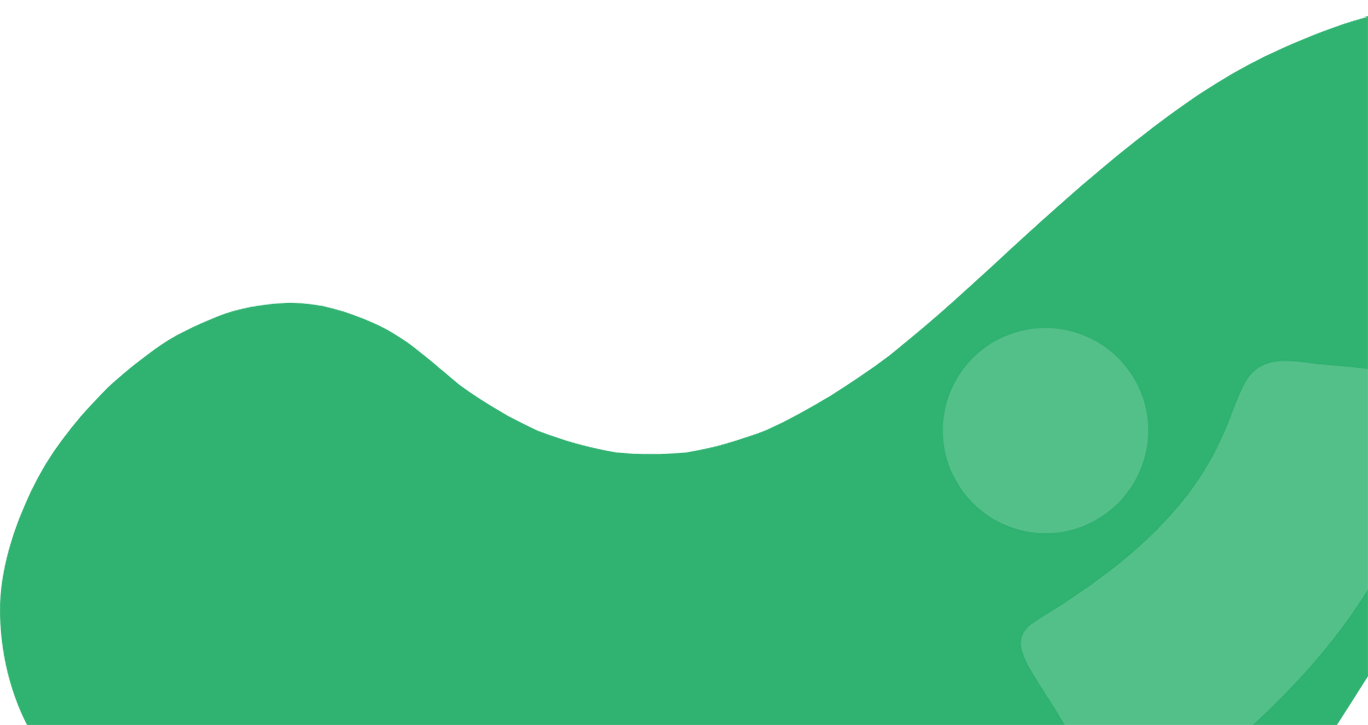
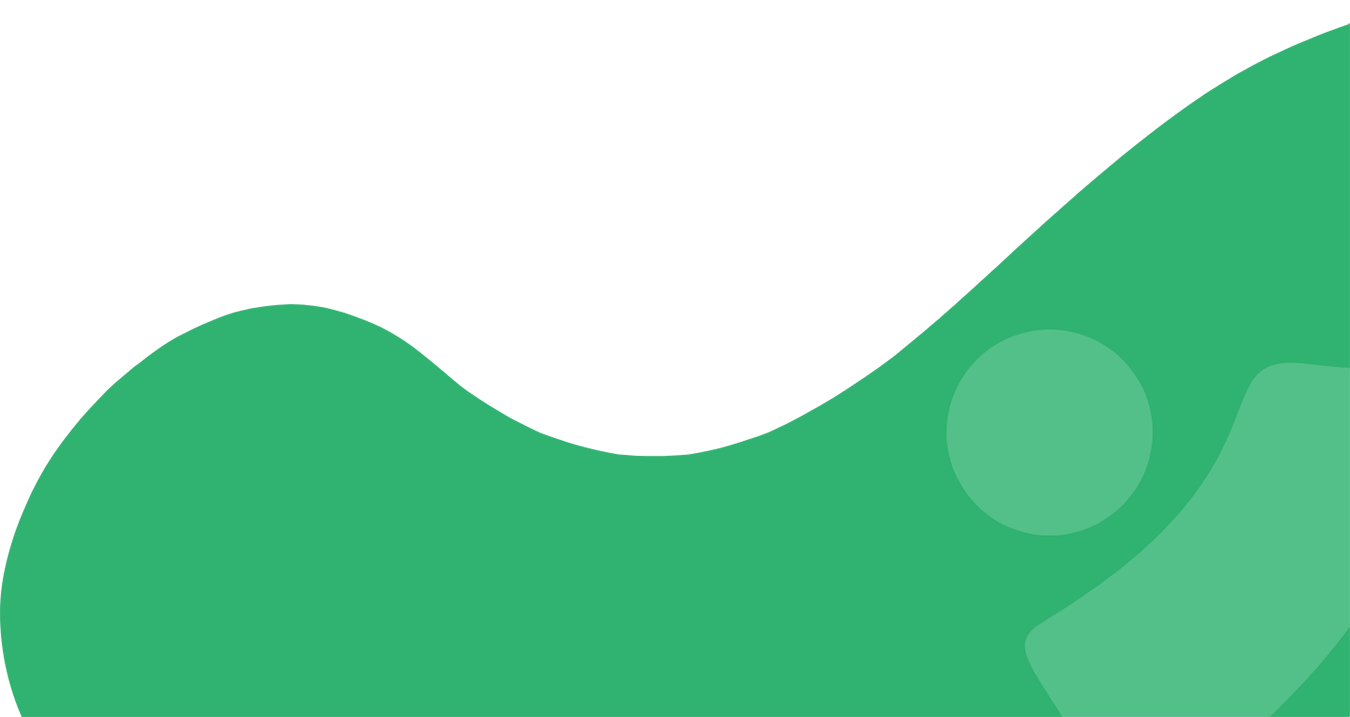
..

diff --git a/themes/lpw/assets/css/_footer.css b/themes/lpw/assets/css/_footer.css
@@ -132,13 +132,19 @@
     background: #fff;
 }
 .ftr-background{
-    position: absolute;
+/*    position: absolute;
     right: 0;
     bottom: 0;
+*/
+	width:100%;
 }
 .ftr-grn-bg{
-    height: 723px;
-    width: 1368px;
+    height: 715px;
+    width:70.31%;
+    position: absolute;
+    right:0;
+    bottom:0;
+    background-size:100% 100%!important;
 }
 /*hr-desing*/
 
@@ -181,10 +187,26 @@
 	right: 23px;
 }
 
-@media(max-width:){
-	.ftr-grn-bg.inline-bg {
-	    height: 625px;
-	    width: 1168px;
-	    background-position: left 51px bottom 0px!important;
+@media(max-width:1699px){
+	.ftr-rgt{
+		padding-left: 160px;
+	}
+	header,.hr-sec{
+		overflow:hidden;
+	}
+}
+@media(max-width:1499px){
+	.ftr-grn-bg{
+		height:700px;
+		width:72.31%;
+	}
+	.ftr-top-details{
+		margin-bottom:28px;
+	}
+	.ftr-top-cntlr{
+		padding-bottom:35px;
+	}
+	.ftr-tel {
+    	margin-bottom: 15px;
 	}
 }
